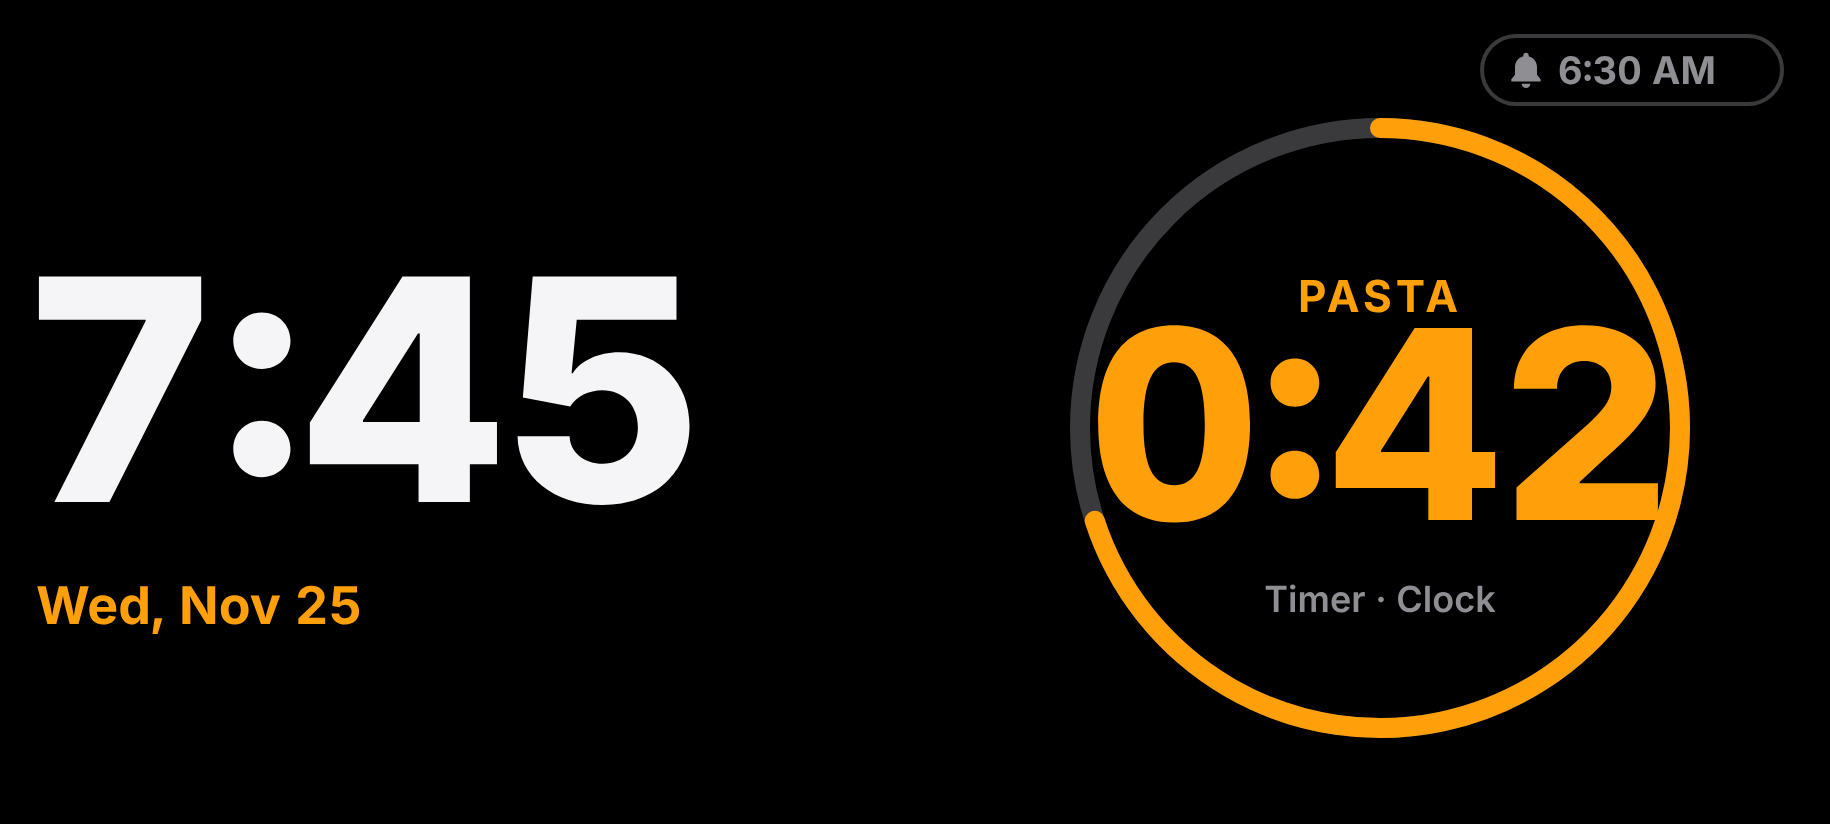
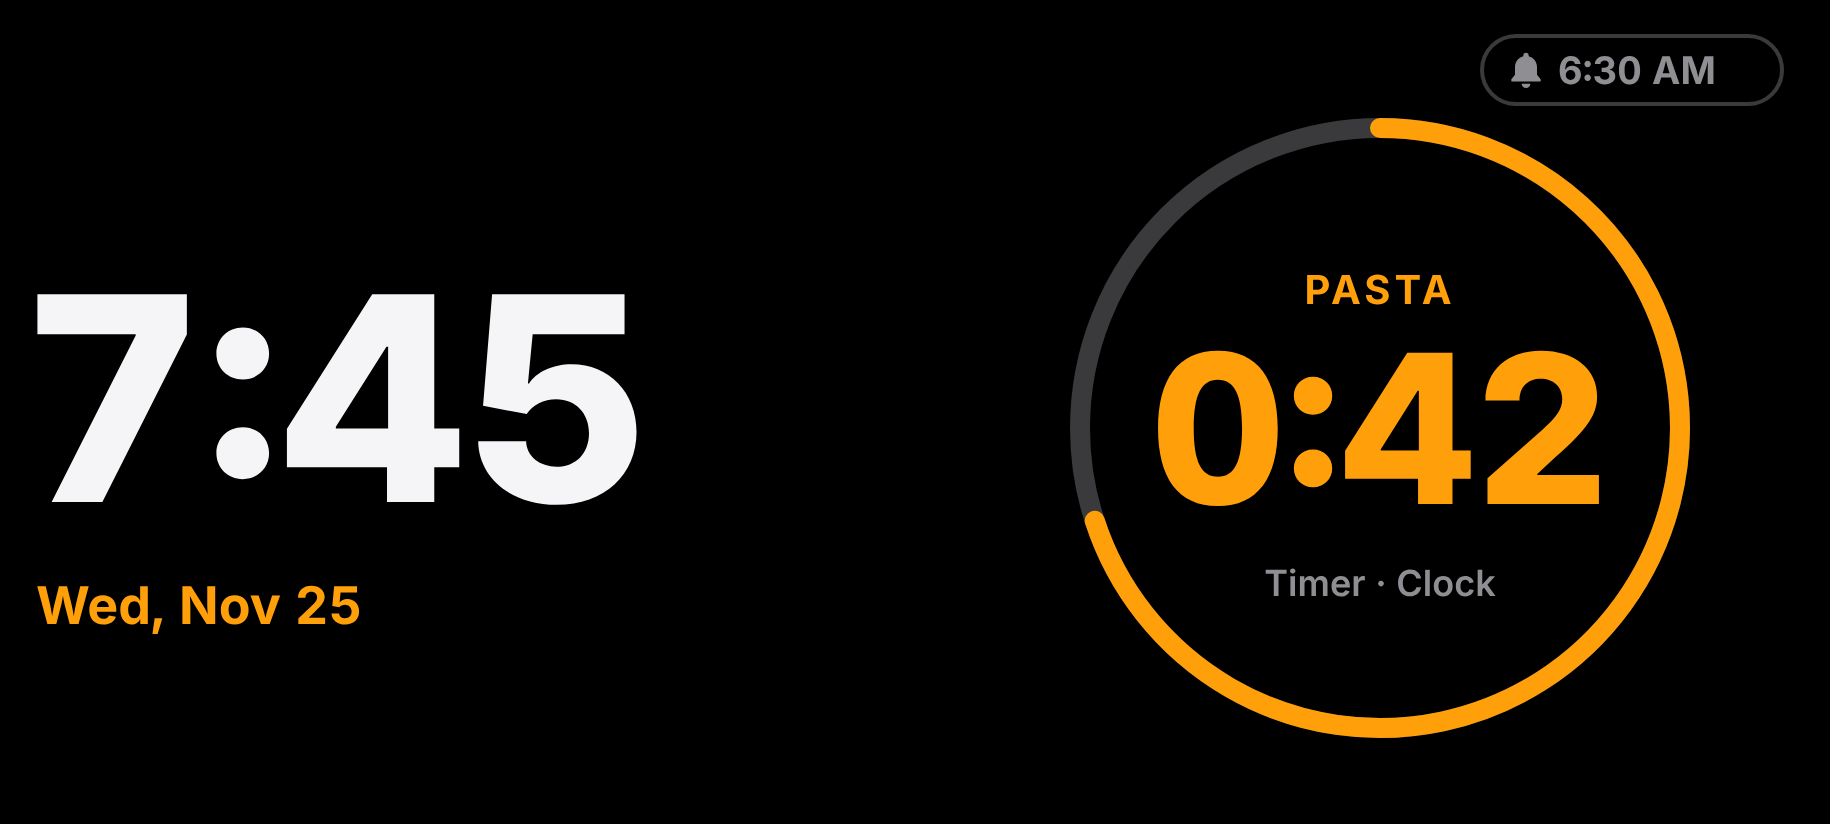
Alarms/timers research: work in progress mockups
Claude-Session: https://claude.ai/code/session_015pPo9kWBpSfrW4qGbm18DX

diff --git a/docs/views/05-alarms-timers/mockup.html b/docs/views/05-alarms-timers/mockup.html
@@ -174,7 +174,7 @@ if (FACE === 'analog' && ALT) {
 if (FACE === 'digital' && !ALT) {
   // D1 (recommended): status lines under the date. Alarm: bell + time + "in 10 h 49 m".
   // Timers: outlined chips, soonest first, counting down; paused chip dimmed with pause glyph.
-  const ts = 155, x = 14, base = 196;
+  const ts = Math.min(100 * (915 * .46 - 14) / measure('00:00', 100, 800), 173), x = 14, base = 196;
   text(x - 4, base, NIGHT ? '11:41' : '7:41', ts, C.primary, 800);
   text(x + 4, base + 46, NIGHT ? 'Wed, Nov 25' : 'Wed, Nov 25', 26, C.accent, 700);
   // alarm line
@@ -202,7 +202,7 @@ if (FACE === 'digital' && !ALT) {
 if (FACE === 'digital' && ALT) {
   // D2 (alternative): the clock column stays pure (time + date). Alarm/timers live in a small
   // status pill top-right, and in a timer's last 60 s the right pane becomes a big countdown.
-  const ts = 155, x = 14, base = 251;
+  const ts = Math.min(100 * (915 * .46 - 14) / measure('00:00', 100, 800), 173), x = 14, base = 251;
   text(x - 4, base, NIGHT ? '11:58' : '7:45', ts, C.primary, 800);
   text(x + 4, base + 61, 'Wed, Nov 25', 26, C.accent, 700);
   // top-right status pill
@@ -214,9 +214,9 @@ if (FACE === 'digital' && ALT) {
   const rx0 = 480, rcx = 690, rcy = 214, rr = 150, left = 42;
   add(`<circle cx="${rcx}" cy="${rcy}" r="${rr}" fill="none" stroke="${C.dim}" stroke-width="10"/>`);
   arc(rcx, rcy, rr, 0, 360 * left / 60, C.accent, 10);
-  text(rcx, rcy - 58, (NIGHT ? 'SLEEP SOUNDS' : 'PASTA'), 22, C.accent, 700, 'middle', 'letter-spacing="2"');
-  text(rcx, rcy + 46, `0:${left}`, 132, C.accent, 800, 'middle');
-  text(rcx, rcy + 92, 'Timer · Clock', 18, C.secondary, 600, 'middle');
+  text(rcx, rcy - 62, (NIGHT ? 'SLEEP SOUNDS' : 'PASTA'), 20, C.accent, 700, 'middle', 'letter-spacing="2"');
+  text(rcx, rcy + 38, `0:${left}`, 104, C.accent, 800, 'middle');
+  text(rcx, rcy + 84, 'Timer · Clock', 18, C.secondary, 600, 'middle');
 }
 
 S.innerHTML = out;
